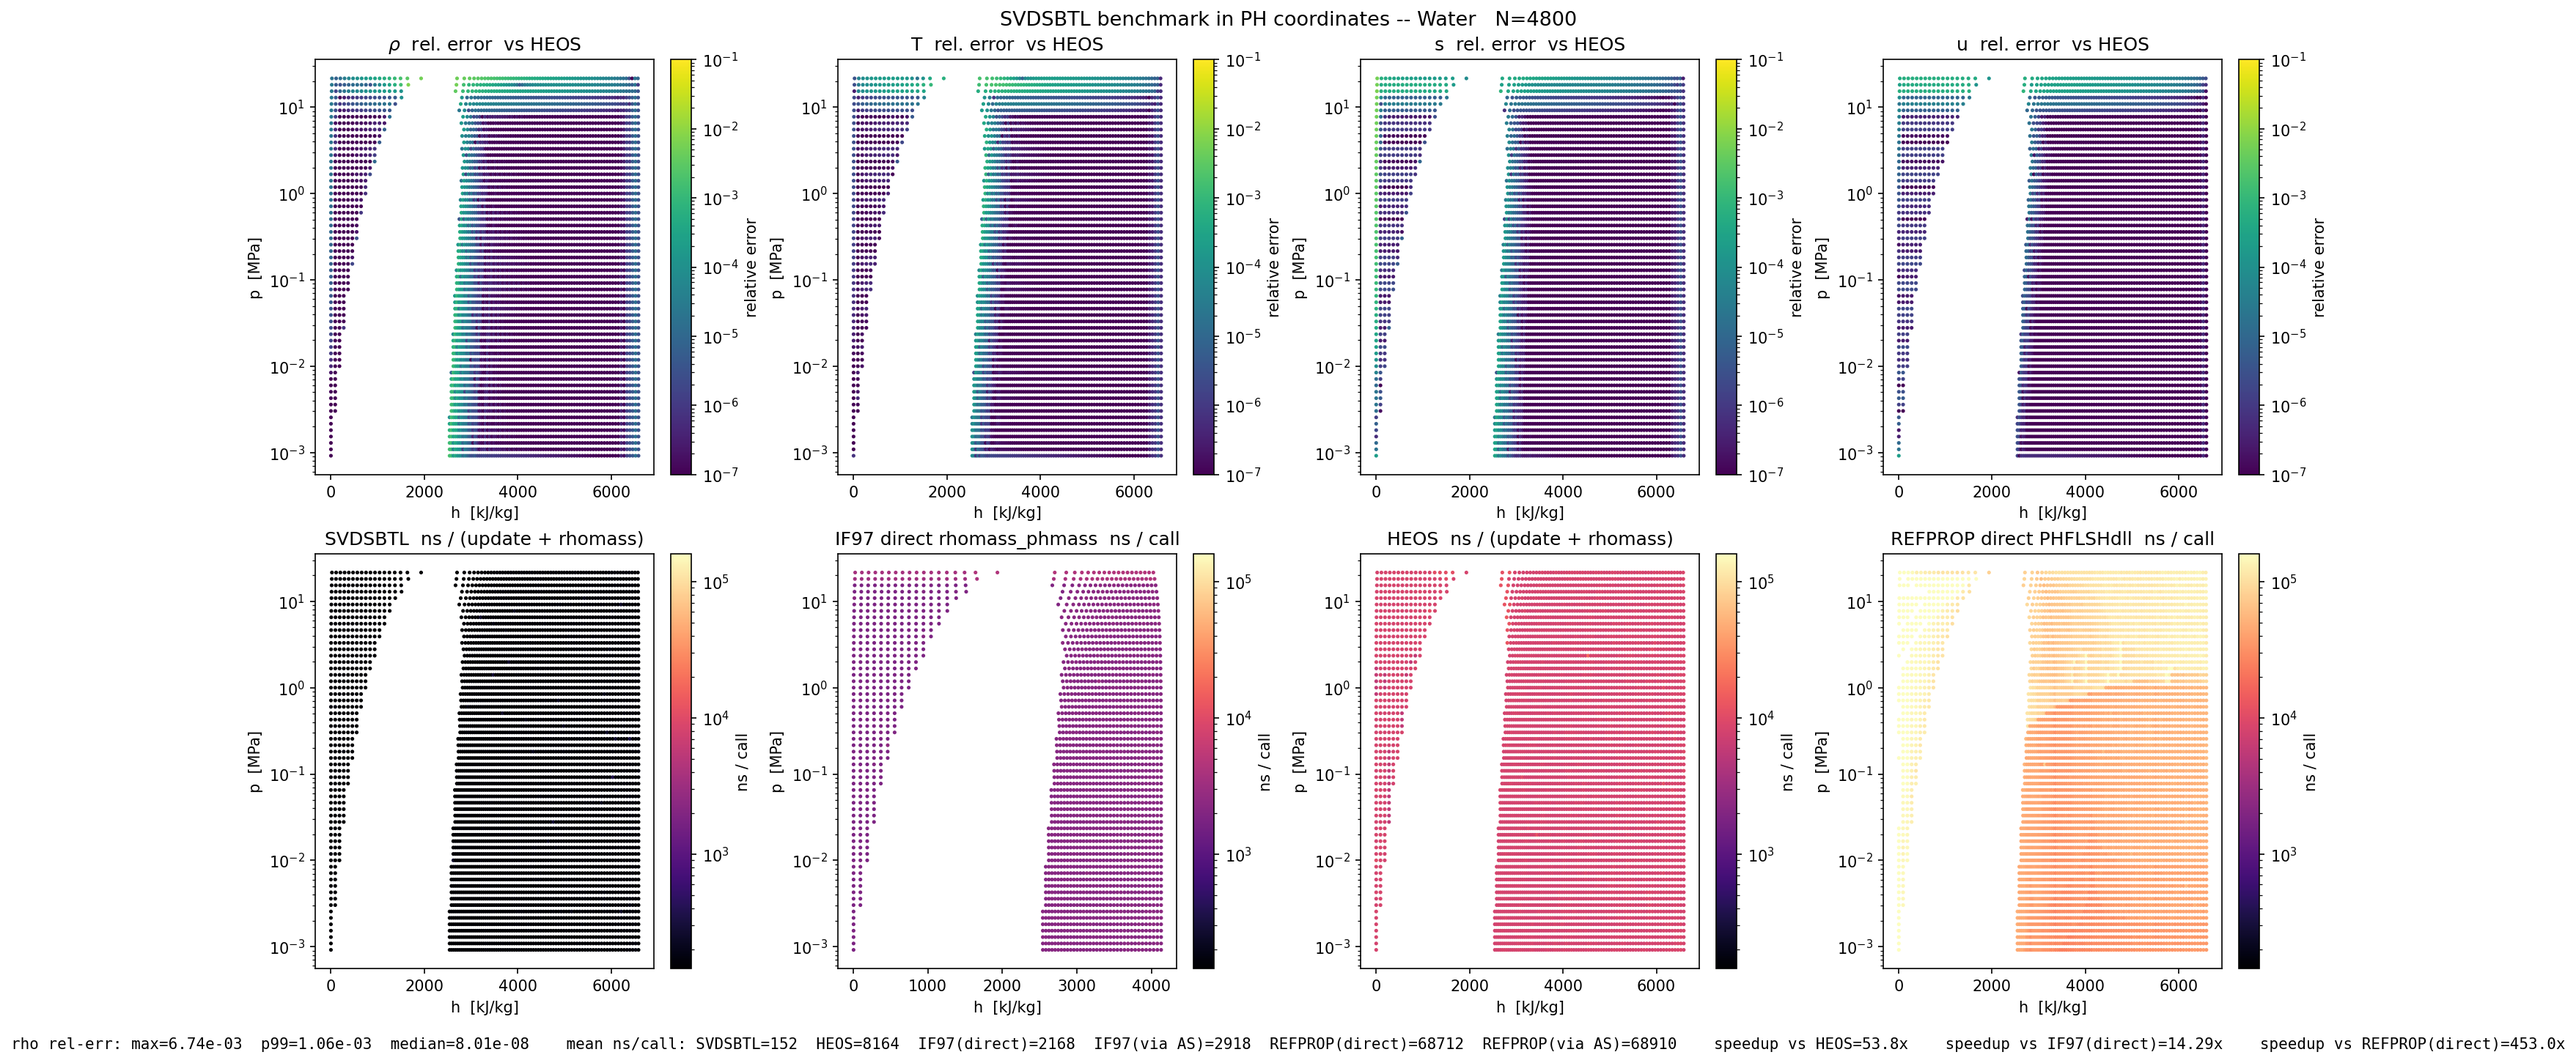
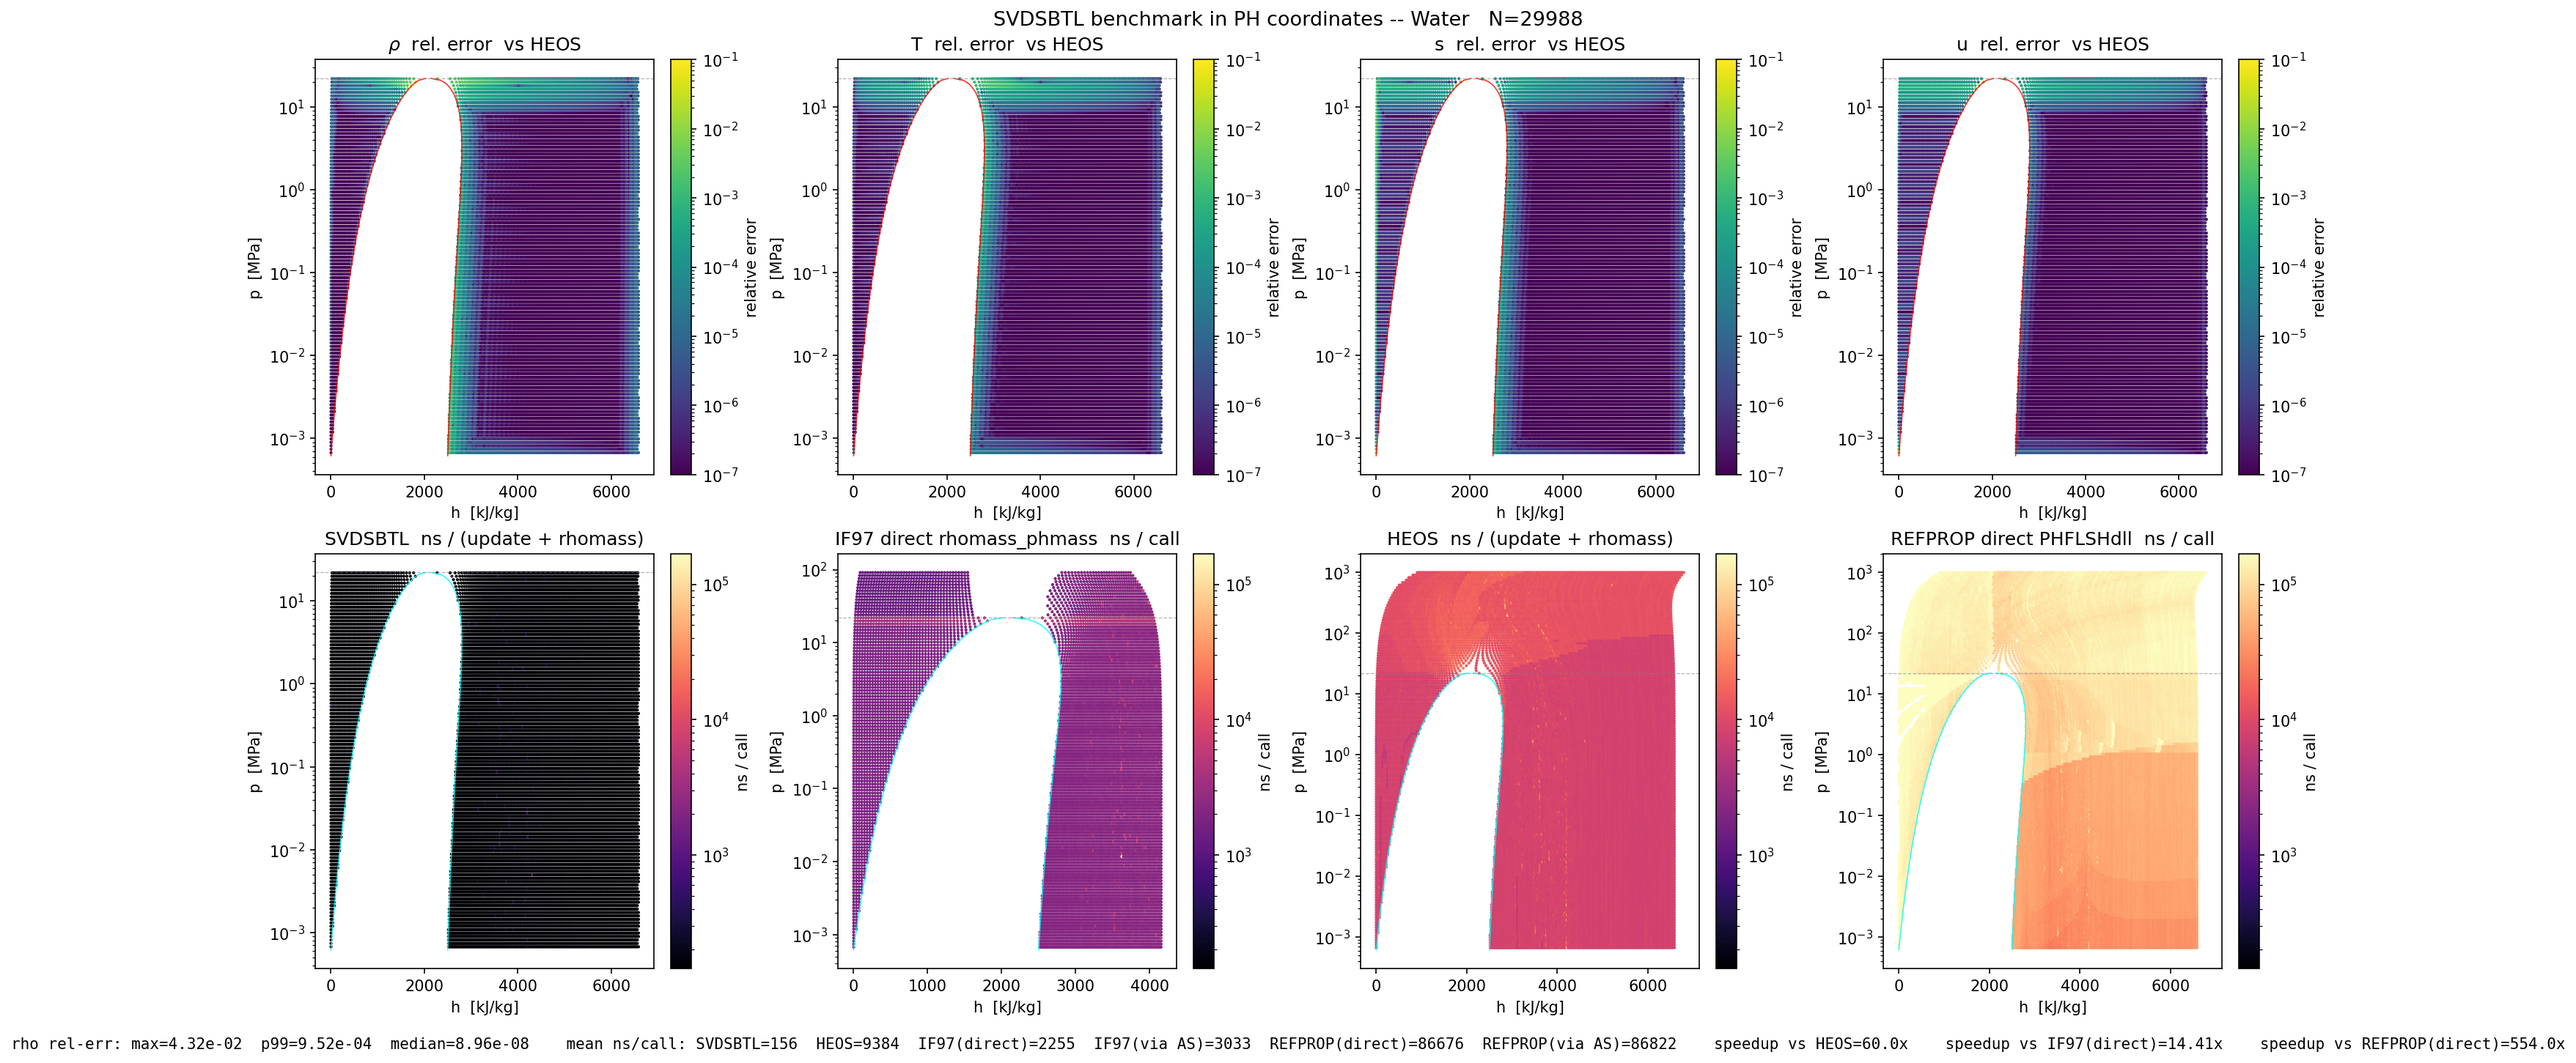
bench(svdsbtl): hammer water over the full phase diagram
Expands the bench from "subcritical only" (p_max = 0.98 * p_crit) to
the full HEOS-supported domain (p_min = 1.1 * p_triple to
p_max = 0.99 * pmax_backend, T = T_triple+0.5 K -> Tmax-0.5 K) so
out-of-domain regions for SVDSBTL show up as visible coverage gaps
instead of being silently skipped.  Default grid bumped from 80x60
(4800 points) to 200x150 (30000 points) so the failure structure
near the dome and near-critical pinch is resolvable.

Behavioural changes:
* When SVDSBTL returns NaN (point outside every Region), we now
  RECORD the row with NaN error / NaN ns_per_call_svd instead of
  `continue`ing.  Plot panels see this as transparent so the
  SVDSBTL coverage hole is visible while the IF97 / HEOS / REFPROP
  panels still fill that region.
* Summary statistics correctly skip NaN cells via an n_svd counter,
  and the header reports both `in-domain` and `out-of-domain`
  counts so the user knows how much of the run was useful.
* Plot now overlays the saturation dome (red on accuracy panels,
  cyan on timing panels) + the critical isobar (gray dashed) via
  CoolProp.PropsSI walked at plot time -- one-time cost, no
  dependency on the bench CSV format.

Water result (NT=200 NP=150 repeats=100, 29,988 single-phase
points):

  SVDSBTL in-domain:    21,972 (73%)
  SVDSBTL out-of-domain: 8,016 (27%)   -- supercritical + dome-edge slip

  rho rel-err vs HEOS:  max=4.32e-2  p99=9.52e-4  p95=1.62e-4  median=8.96e-8
[…]

diff --git a/dev/bench_svdsbtl_ph_plot.py b/dev/bench_svdsbtl_ph_plot.py
@@ -27,28 +27,69 @@ import pandas as pd
 from matplotlib.colors import LogNorm
 
 
-def _err_panel(ax, h_kJ, p_MPa, vals, title, vmin=1e-7, vmax=1e-1):
-    vals = np.maximum(vals, 1e-16)
-    sc = ax.scatter(h_kJ, p_MPa, c=vals, s=6, edgecolor="none", cmap="viridis", norm=LogNorm(vmin=vmin, vmax=vmax))
+def _err_panel(ax, h_kJ, p_MPa, vals, title, vmin=1e-7, vmax=1e-1, dome=None, p_crit_MPa=None):
+    vals = np.maximum(np.asarray(vals, dtype=float), 1e-16)
+    valid = ~np.isnan(vals)
+    sc = ax.scatter(h_kJ[valid], p_MPa[valid], c=vals[valid], s=4, edgecolor="none", cmap="viridis", norm=LogNorm(vmin=vmin, vmax=vmax))
     ax.set_yscale("log")
     ax.set_xlabel("h  [kJ/kg]")
     ax.set_ylabel("p  [MPa]")
     ax.set_title(title)
+    if dome is not None:
+        ax.plot(dome["hL"] / 1e3, dome["p"] / 1e6, color="red", lw=0.8, alpha=0.8)
+        ax.plot(dome["hV"] / 1e3, dome["p"] / 1e6, color="red", lw=0.8, alpha=0.8)
+    if p_crit_MPa is not None:
+        ax.axhline(p_crit_MPa, color="gray", ls="--", lw=0.6, alpha=0.6)
     plt.colorbar(sc, ax=ax, label="relative error")
 
 
-def _time_panel(ax, h_kJ, p_MPa, ns, title, norm):
+def _time_panel(ax, h_kJ, p_MPa, ns, title, norm, dome=None, p_crit_MPa=None):
     if np.all(np.isnan(ns)):
         ax.set_axis_off()
         ax.set_title(title + "  (n/a)")
         return
     valid = ~np.isnan(ns)
-    sc = ax.scatter(h_kJ[valid], p_MPa[valid], c=ns[valid], s=6, edgecolor="none", cmap="magma", norm=norm)
+    sc = ax.scatter(h_kJ[valid], p_MPa[valid], c=ns[valid], s=4, edgecolor="none", cmap="magma", norm=norm)
     ax.set_yscale("log")
     ax.set_xlabel("h  [kJ/kg]")
     ax.set_ylabel("p  [MPa]")
     ax.set_title(title)
+    if dome is not None:
+        ax.plot(dome["hL"] / 1e3, dome["p"] / 1e6, color="cyan", lw=0.8, alpha=0.8)
+        ax.plot(dome["hV"] / 1e3, dome["p"] / 1e6, color="cyan", lw=0.8, alpha=0.8)
+    if p_crit_MPa is not None:
+        ax.axhline(p_crit_MPa, color="gray", ls="--", lw=0.6, alpha=0.6)
     plt.colorbar(sc, ax=ax, label="ns / call")
+
+
+def _saturation_dome(fluid: str) -> tuple[dict | None, float | None]:
+    """Walk the saturation curve via CoolProp.HEOS for the dome overlay.
+
+    Returns (dict with arrays p, hL, hV, or None if HEOS doesn't have
+    this fluid; p_crit in Pa or None).  Catches all exceptions so the
+    plot still produces something useful if CoolProp isn't importable.
+    """
+    try:
+        import CoolProp.CoolProp as cp
+    except Exception:
+        return None, None
+
+    try:
+        p_crit = cp.PropsSI("pcrit", fluid)
+        p_trip = cp.PropsSI("ptriple", fluid)
+    except Exception:
+        return None, None
+
+    p_arr = np.geomspace(p_trip * 1.01, p_crit * 0.999, 200)
+    hL = np.full(p_arr.size, np.nan)
+    hV = np.full(p_arr.size, np.nan)
+    for i, p in enumerate(p_arr):
+        try:
+            hL[i] = cp.PropsSI("H", "P", p, "Q", 0.0, fluid)
+            hV[i] = cp.PropsSI("H", "P", p, "Q", 1.0, fluid)
+        except Exception:
+            pass
+    return {"p": p_arr, "hL": hL, "hV": hV}, p_crit
 
 
 def plot_one(csv_path: Path, out_path: Path) -> None:
@@ -58,6 +99,8 @@ def plot_one(csv_path: Path, out_path: Path) -> None:
         return
 
     fluid = csv_path.stem.replace("bench_svdsbtl_ph_", "")
+    dome, p_crit_Pa = _saturation_dome(fluid)
+    p_crit_MPa = p_crit_Pa / 1e6 if p_crit_Pa is not None else None
     has_refprop = df["ns_per_call_refprop"].notna().any()
     has_refprop_direct = "ns_per_call_refprop_direct" in df.columns and df["ns_per_call_refprop_direct"].notna().any()
     has_if97 = "ns_per_call_if97" in df.columns and df["ns_per_call_if97"].notna().any()
@@ -73,11 +116,15 @@ def plot_one(csv_path: Path, out_path: Path) -> None:
     h_kJ = df["h"].to_numpy() / 1e3
     p_MPa = df["p"].to_numpy() / 1e6
 
-    # Row 0 -- accuracy panels (SVDSBTL vs HEOS).
-    _err_panel(axes[0, 0], h_kJ, p_MPa, df["rel_err_rho"].to_numpy(), r"$\rho$  rel. error  vs HEOS")
-    _err_panel(axes[0, 1], h_kJ, p_MPa, df["rel_err_T"].to_numpy(), "T  rel. error  vs HEOS")
-    _err_panel(axes[0, 2], h_kJ, p_MPa, df["rel_err_s"].to_numpy(), "s  rel. error  vs HEOS")
-    _err_panel(axes[0, 3], h_kJ, p_MPa, df["rel_err_u"].to_numpy(), "u  rel. error  vs HEOS")
+    # Row 0 -- accuracy panels (SVDSBTL vs HEOS).  Sat dome (red) +
+    # critical-pressure line (gray dashed) overlaid so the eye can
+    # see where coverage stops and where the surface is fighting
+    # boundary geometry.
+    common = dict(dome=dome, p_crit_MPa=p_crit_MPa)
+    _err_panel(axes[0, 0], h_kJ, p_MPa, df["rel_err_rho"].to_numpy(), r"$\rho$  rel. error  vs HEOS", **common)
+    _err_panel(axes[0, 1], h_kJ, p_MPa, df["rel_err_T"].to_numpy(), "T  rel. error  vs HEOS", **common)
+    _err_panel(axes[0, 2], h_kJ, p_MPa, df["rel_err_s"].to_numpy(), "s  rel. error  vs HEOS", **common)
+    _err_panel(axes[0, 3], h_kJ, p_MPa, df["rel_err_u"].to_numpy(), "u  rel. error  vs HEOS", **common)
 
     # Row 1 -- timing panels on a SHARED log color scale so the
     # cross-backend speed delta is visually unambiguous.  For IF97
@@ -99,12 +146,13 @@ def plot_one(csv_path: Path, out_path: Path) -> None:
     vmax = float(np.percentile(all_ns, 99))
     shared = LogNorm(vmin=vmin, vmax=vmax)
 
-    _time_panel(axes[1, 0], h_kJ, p_MPa, df["ns_per_call_svd"].to_numpy(), "SVDSBTL  ns / (update + rhomass)", shared)
+    tcommon = dict(dome=dome, p_crit_MPa=p_crit_MPa)
+    _time_panel(axes[1, 0], h_kJ, p_MPa, df["ns_per_call_svd"].to_numpy(), "SVDSBTL  ns / (update + rhomass)", shared, **tcommon)
     if97_title = "IF97 direct rhomass_phmass  ns / call" if has_if97_direct else "IF97  ns / (update + rhomass via AS)"
-    _time_panel(axes[1, 1], h_kJ, p_MPa, if97_ns, if97_title, shared)
-    _time_panel(axes[1, 2], h_kJ, p_MPa, df["ns_per_call_heos"].to_numpy(), "HEOS  ns / (update + rhomass)", shared)
+    _time_panel(axes[1, 1], h_kJ, p_MPa, if97_ns, if97_title, shared, **tcommon)
+    _time_panel(axes[1, 2], h_kJ, p_MPa, df["ns_per_call_heos"].to_numpy(), "HEOS  ns / (update + rhomass)", shared, **tcommon)
     refprop_title = "REFPROP direct PHFLSHdll  ns / call" if has_refprop_direct else "REFPROP  ns / (update + rhomass via AS)"
-    _time_panel(axes[1, 3], h_kJ, p_MPa, refprop_ns, refprop_title, shared)
+    _time_panel(axes[1, 3], h_kJ, p_MPa, refprop_ns, refprop_title, shared, **tcommon)
 
     # Summary footer.
     max_rho = df["rel_err_rho"].max()

diff --git a/dev/bench_svdsbtl_ph.cpp b/dev/bench_svdsbtl_ph.cpp
@@ -237,10 +237,16 @@ void bench_one(const std::string& fluid, std::size_t NT, std::size_t NP, std::si
         }
     }
 
-    const double T_min = std::max(heos->Ttriple(), heos->Tmin()) + 1.0;
-    const double T_max = heos->Tmax() - 1.0;
-    const double p_min = heos->p_triple() * 1.5;
-    const double p_max = heos->p_critical() * 0.98;
+    // Full phase-diagram coverage: triple-point pressure -> backend's
+    // upper limit, triple-point temperature -> Tmax.  Goes well past
+    // p_crit into supercritical territory; SVDSBTL only covers
+    // subcritical so above-p_crit cells will record rho_pred = NaN.
+    // We keep them in the output anyway so the plot can show where
+    // coverage stops.
+    const double T_min = std::max(heos->Ttriple(), heos->Tmin()) + 0.5;
+    const double T_max = heos->Tmax() - 0.5;
+    const double p_min = heos->p_triple() * 1.1;
+    const double p_max = heos->pmax() * 0.99;
 
     std::vector<Row> rows;
     rows.reserve(NT * NP);
@@ -269,16 +275,20 @@ void bench_one(const std::string& fluid, std::size_t NT, std::size_t NP, std::si
                 r.s_pred = svd->smass();
                 r.u_pred = svd->umass();
 
-                if (std::isnan(r.rho_pred)) {
-                    continue;  // outside any region (e.g. dome edge slip)
+                const bool svd_in_domain = !std::isnan(r.rho_pred);
+                if (svd_in_domain) {
+                    r.rel_err_rho = std::abs(r.rho_pred - r.rho_truth) / r.rho_truth;
+                    r.rel_err_T = std::abs(r.T_pred - r.T) / r.T;
+                    r.rel_err_s = (r.s_truth != 0.0) ? std::abs(r.s_pred - r.s_truth) / std::abs(r.s_truth) : 0.0;
+                    r.rel_err_u = (r.u_truth != 0.0) ? std::abs(r.u_pred - r.u_truth) / std::abs(r.u_truth) : 0.0;
+                    r.ns_per_call_svd = time_update_rhomass(*svd, ::CoolProp::HmassP_INPUTS, r.h, r.p, repeats);
+                } else {
+                    r.rel_err_rho = std::nan("");
+                    r.rel_err_T = std::nan("");
+                    r.rel_err_s = std::nan("");
+                    r.rel_err_u = std::nan("");
+                    r.ns_per_call_svd = std::nan("");
                 }
-
-                r.rel_err_rho = std::abs(r.rho_pred - r.rho_truth) / r.rho_truth;
-                r.rel_err_T = std::abs(r.T_pred - r.T) / r.T;
-                r.rel_err_s = (r.s_truth != 0.0) ? std::abs(r.s_pred - r.s_truth) / std::abs(r.s_truth) : 0.0;
-                r.rel_err_u = (r.u_truth != 0.0) ? std::abs(r.u_pred - r.u_truth) / std::abs(r.u_truth) : 0.0;
-
-                r.ns_per_call_svd = time_update_rhomass(*svd, ::CoolProp::HmassP_INPUTS, r.h, r.p, repeats);
                 r.ns_per_call_heos = time_update_rhomass(*heos, ::CoolProp::PT_INPUTS, p, T, repeats);
 
                 if (if97) {
@@ -356,16 +366,20 @@ void bench_one(const std::string& fluid, std::size_t NT, std::size_t NP, std::si
     double sum_ns_refprop_direct = 0;
     double sum_ns_if97 = 0;
     double sum_ns_if97_direct = 0;
+    std::size_t n_svd = 0;  // cells where SVDSBTL is in-domain
     std::size_t n_refprop = 0;
     std::size_t n_refprop_direct = 0;
     std::size_t n_if97 = 0;
     std::size_t n_if97_direct = 0;
     for (const auto& r : rows) {
-        max_rho = std::max(max_rho, r.rel_err_rho);
-        max_T = std::max(max_T, r.rel_err_T);
-        max_s = std::max(max_s, r.rel_err_s);
-        max_u = std::max(max_u, r.rel_err_u);
-        sum_ns_svd += r.ns_per_call_svd;
+        if (!std::isnan(r.rel_err_rho)) {
+            max_rho = std::max(max_rho, r.rel_err_rho);
+            max_T = std::max(max_T, r.rel_err_T);
+            max_s = std::max(max_s, r.rel_err_s);
+            max_u = std::max(max_u, r.rel_err_u);
+            sum_ns_svd += r.ns_per_call_svd;
+            ++n_svd;
+        }
         sum_ns_heos += r.ns_per_call_heos;
         if (!std::isnan(r.ns_per_call_refprop)) {
             sum_ns_refprop += r.ns_per_call_refprop;
@@ -385,9 +399,11 @@ void bench_one(const std::string& fluid, std::size_t NT, std::size_t NP, std::si
         }
     }
     const auto n = static_cast<double>(rows.size());
-    const double mean_svd = sum_ns_svd / n;
+    const auto n_in_domain = static_cast<double>(n_svd);
+    const double mean_svd = (n_svd > 0) ? sum_ns_svd / n_in_domain : std::nan("");
     const double mean_heos = sum_ns_heos / n;
-    std::printf("%-12s N=%5zu  max_rel: rho=%.2e T=%.2e s=%.2e u=%.2e\n", fluid.c_str(), rows.size(), max_rho, max_T, max_s, max_u);
+    std::printf("%-12s N=%5zu (SVDSBTL in-domain=%zu, out-of-domain=%zu)\n", fluid.c_str(), rows.size(), n_svd, rows.size() - n_svd);
+    std::printf("            max_rel: rho=%.2e T=%.2e s=%.2e u=%.2e\n", max_rho, max_T, max_s, max_u);
     std::printf("            mean ns/call: svd=%.0f  heos=%.0f", mean_svd, mean_heos);
     if (n_refprop > 0) {
         std::printf("  refprop(via AS)=%.0f", sum_ns_refprop / static_cast<double>(n_refprop));
@@ -420,9 +436,9 @@ void bench_one(const std::string& fluid, std::size_t NT, std::size_t NP, std::si
 }  // namespace
 
 int main(int argc, char** argv) {
-    const std::size_t NT = env_size_t("BENCH_NT", 80);
-    const std::size_t NP = env_size_t("BENCH_NP", 60);
-    const std::size_t repeats = env_size_t("BENCH_REPEATS", 200);
+    const std::size_t NT = env_size_t("BENCH_NT", 200);
+    const std::size_t NP = env_size_t("BENCH_NP", 150);
+    const std::size_t repeats = env_size_t("BENCH_REPEATS", 100);
     const char* refprop_env = std::getenv("BENCH_REFPROP_PATH");
     const std::string refprop_path = (refprop_env != nullptr) ? std::string(refprop_env) : std::string();
 
